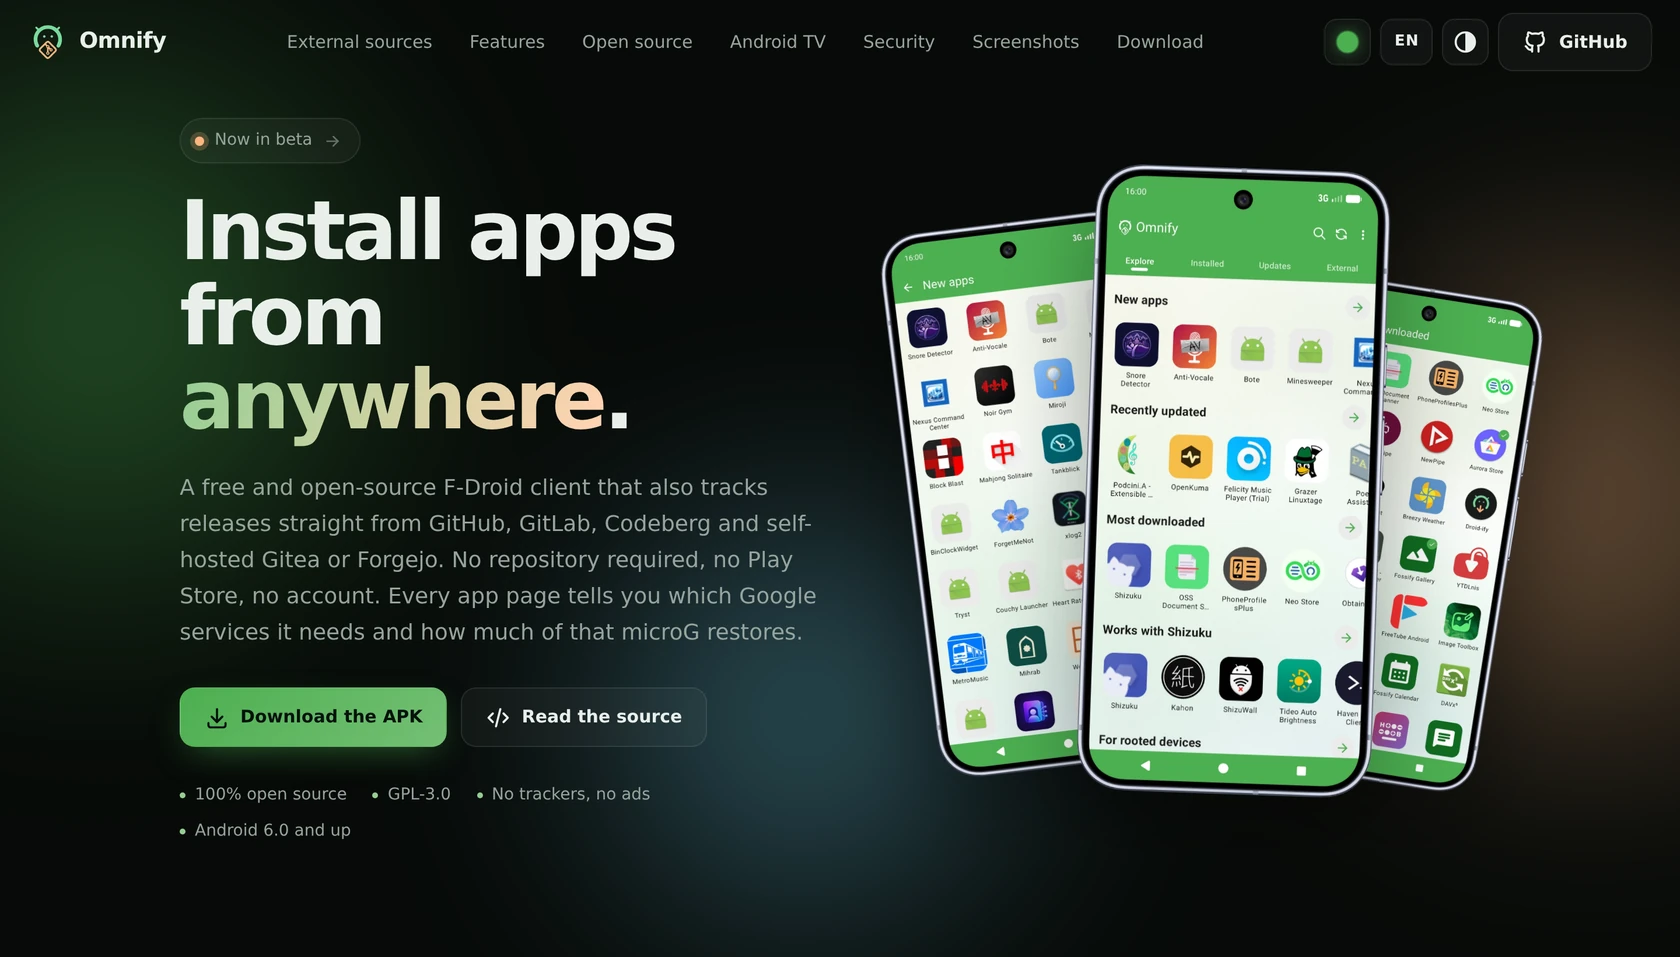
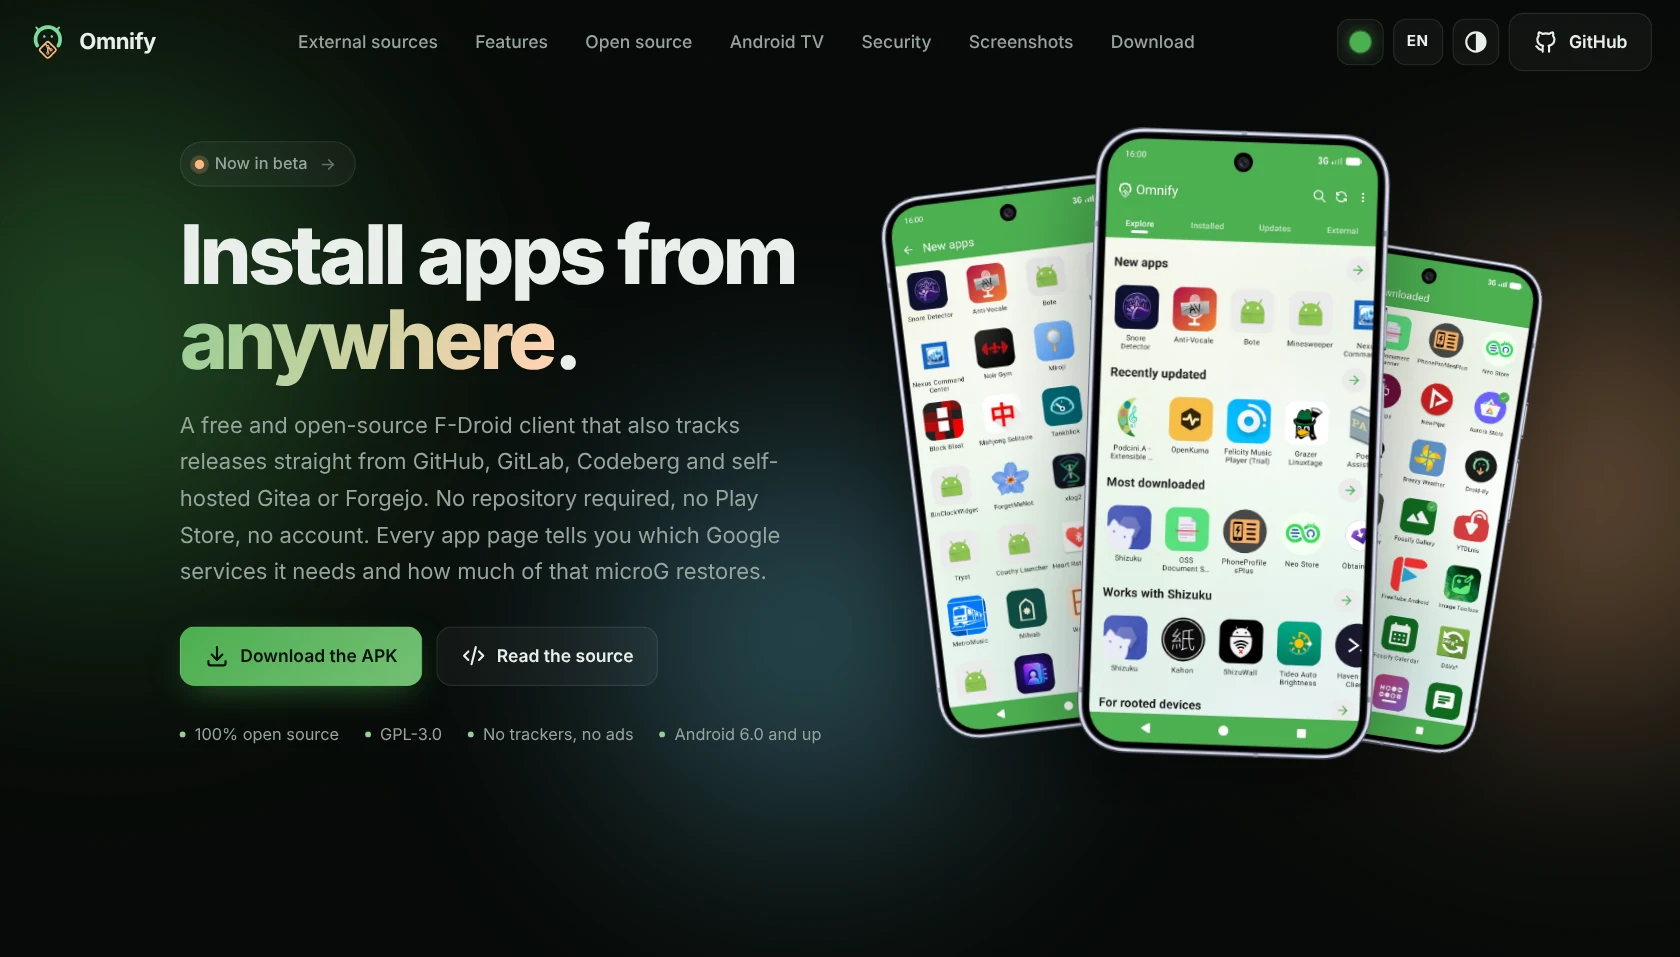
docs(changelog): describe v1.0.6-beta.7 and refresh the website screenshot

diff --git a/CHANGELOG.md b/CHANGELOG.md
@@ -5,7 +5,8 @@
 Ten backgrounds to choose from, an Updates tab that always matches its notification, and tidier categories. If you use the optional ML Kit translator (off by default), it no longer reports to Google, ahead of being replaced in the next version.
 
 ### ✨ Added
-- **Ten backgrounds to pick from** in Settings, all tinted from your accent and following light, dark and black themes. Halo is the new default; the previous one stays as "Aurora (classic)".
+- **Ten backgrounds to pick from** in Settings, all tinted from your accent and following light, dark and black themes. Dunes is the new default; the previous one stays as "Aurora (classic)".
+- **Install source per app.** For apps installed with Shizuku or root, choose Google Play (default) or Omnify from a line under the action buttons. Off by default, in Settings under Installer.
 
 ### 🔄 Changed
 - **The update ring goes all the way around the app icon**, following its shape, with the percentage on a round badge.
@@ -22,6 +23,9 @@ Ten backgrounds to choose from, an Updates tab that always matches its notificat
 - **Search finds the apps you follow from GitHub or GitLab too**, ignores the space a keyboard suggestion leaves after a word, and says so when nothing matches.
 - **With the accent matching an app's icon, the navigation bar keeps that colour** behind the install dialog.
 - **No more grey veil over the status bar** under edge-to-edge.
+- **Apps with one build per CPU architecture show all their versions.** Some devices got none and could not install. The next sync restores the missing builds.
+- **Installed apps show their own icon at once** on external source pages.
+- **Page accent follows the app's icon**, not the developer's avatar.
 
 ---
 
